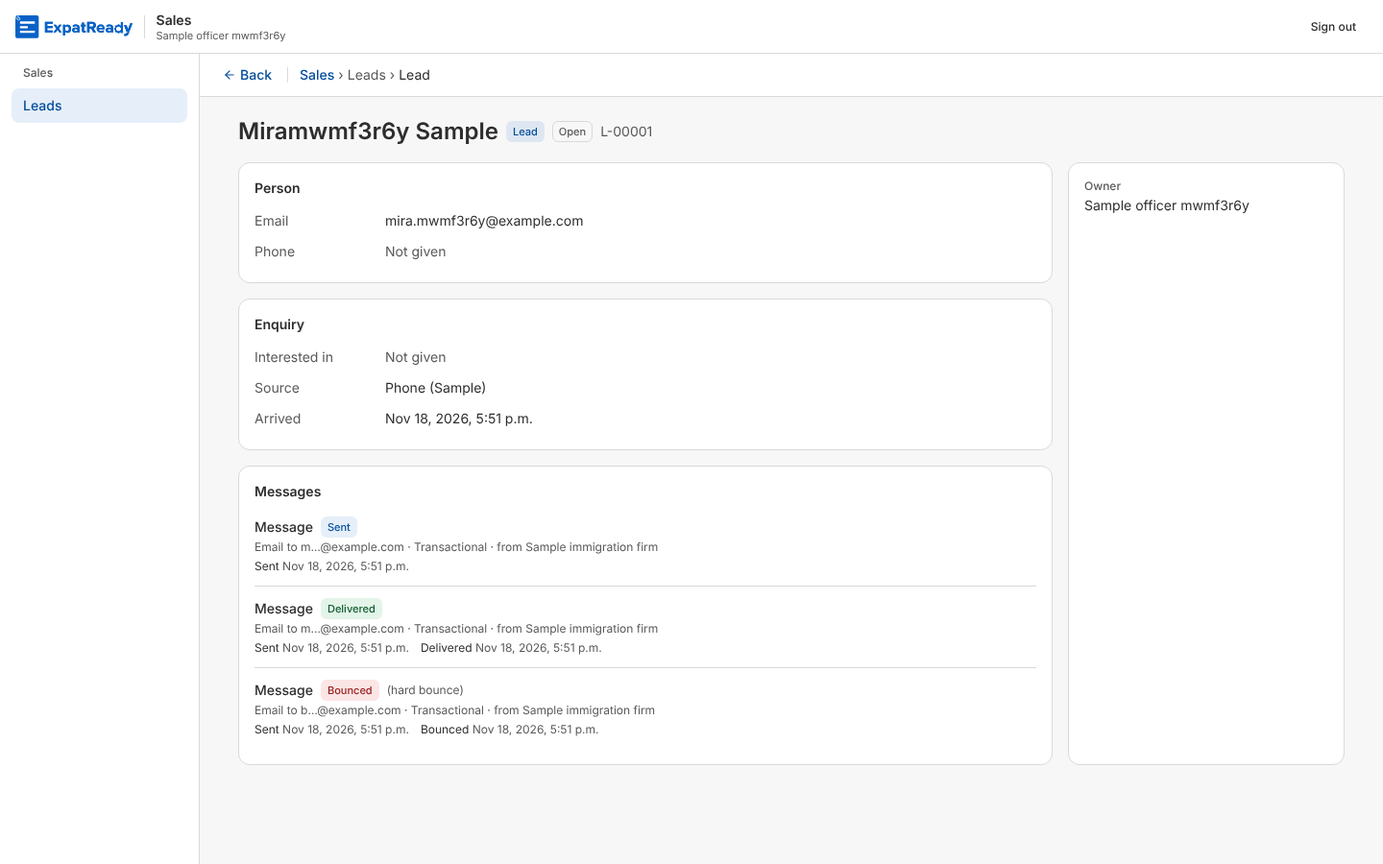
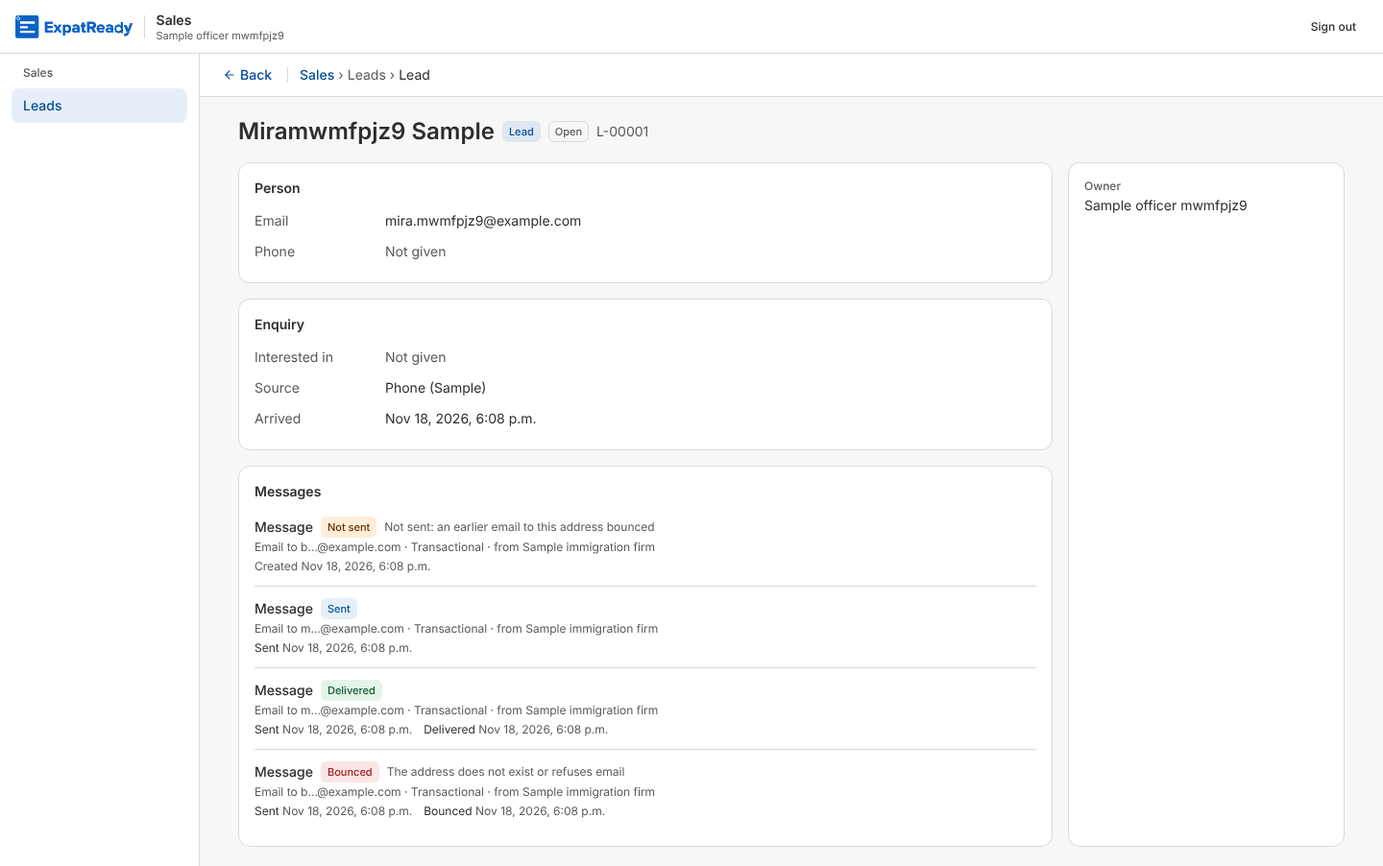
runtime: PF-19b part 3 — review fixes: reasons in plain words (M1), focus after Show older (m1), Try again (m2), impossible cursors 400 (m3); review and journey files
Claude-Session: https://claude.ai/code/session_018BSQJo9hHGemaYv7zS7fqE

diff --git a/ai-workers/problem-1-pathway-setup-and-form-filling/prototype/studio/tests/check_pf19b3_panel_browser.ts b/ai-workers/problem-1-pathway-setup-and-form-filling/prototype/studio/tests/check_pf19b3_panel_browser.ts
@@ -78,13 +78,16 @@ ok("DW4 pass (the running copy): its own worker sends a lead's email with the lo
 ok("DW4 pass (the running copy): a Sample bounce address reads BOUNCED and the address is suppressed", stateOf(forBounce.outboxId) === "BOUNCED"
   && sql(`select count(*) from msg_suppression where firm_id = '${A}' and address = '${bounceTo}' and reason = 'HARD_BOUNCE'`) === "1");
 ok("DW4 fail (the running copy): a message the copy did not send (no test event) stays SENT", stateOf(sentHere.outboxId) === "SENT");
+// The next email to the bounced address is stopped by the gate (SUPPRESSED, reason "SUPPRESSED: HARD_BOUNCE"): the panel words it (review M1).
+const afterBounce = await write(bounceTo, "Third try (Sample)");
+ok("DW4 pass (the running copy): the next send to the bounced address is suppressed", afterBounce.state === "SUPPRESSED" && afterBounce.reason === "SUPPRESSED: HARD_BOUNCE", afterBounce);
 
 // DW5 on the running copy: the real route and the platform guard.
 const api = (tok: string | null, path: string) => fetch(`${BASE}/api${path}`, { headers: tok ? { authorization: `Bearer ${tok}` } : {} });
 const q = `/platform/messages?subjectKind=LEAD&subjectId=${leadId}`;
 const mine = await api(tokens.O, q), mineBody = await mine.text();
-ok("DW5 pass (route): the lead's owner gets its three messages; no body text and no full address in the answer",
-  mine.status === 200 && (JSON.parse(mineBody) as { messages: unknown[] }).messages.length === 3 && !mineBody.includes(`BODY-${run}`) && !mineBody.includes(addr) && !mineBody.includes("Booked (Sample)"), { status: mine.status, body: mineBody.slice(0, 300) });
+ok("DW5 pass (route): the lead's owner gets its four messages; no body text and no full address in the answer",
+  mine.status === 200 && (JSON.parse(mineBody) as { messages: unknown[] }).messages.length === 4 && !mineBody.includes(`BODY-${run}`) && !mineBody.includes(addr) && !mineBody.includes("Booked (Sample)"), { status: mine.status, body: mineBody.slice(0, 300) });
 const roR = await api(tokens.RO, q), fbR = await api(tokens.FB, q), none = await api(null, q);
 const words = async (r: Response) => `${r.status}:${((await r.json()) as { detail?: string }).detail}`;
 const roW = await words(roR), fbW = await words(fbR);
@@ -110,13 +113,15 @@ try {
   await panel(p).locator("[data-message]").first().waitFor({ timeout: 30_000 }).catch(() => undefined);
   ok("DW6 pass (keyboard only): Tab reaches the lead in the Leads list and Enter opens its page with the Messages panel", reached && (await panel(p).count()) === 1 && p.url().endsWith(leadId));
   const stateWords = await panel(p).locator("[data-state-word]").allInnerTexts();
-  ok("DW6 pass: the panel shows Sent, Delivered and Bounced as words, one per message", ["Sent", "Delivered", "Bounced"].every((w) => stateWords.includes(w)) && stateWords.length === 3, stateWords);
+  ok("DW6 pass: the panel shows Sent, Delivered, Bounced and Not sent as words, one per message", ["Sent", "Delivered", "Bounced", "Not sent"].every((w) => stateWords.includes(w)) && stateWords.length === 4, stateWords);
   const text = await panel(p).innerText();
   ok("DW6 pass: each message names its channel, the masked address, its class, the from-name and what happened with times",
     text.includes(`Email to m…@example.com`) && text.includes("Transactional") && text.includes(`from ${sql(`select operating_name from platform_firm where id = '${A}'`)}`) && /Delivered [A-Z][a-z]{2} \d{1,2}, \d{4}/.test(text) && text.includes("Bounced"), text.slice(0, 500));
+  ok("DW6 fail (review M1): a stored reason shows in plain words, never as a code (Not sent: an earlier email to this address bounced; hard bounce in words)",
+    text.includes("Not sent: an earlier email to this address bounced") && text.includes("The address does not exist or refuses email") && !/SUPPRESSED|HARD_BOUNCE|NO_CONSENT|hard bounce/.test(text), text.slice(0, 800));
   ok("DW6 fail: the page shows no body text and no full address of any message", !(await p.content()).includes(`BODY-${run}`) && !text.includes(addr) && !text.includes(bounceTo));
   // The state is never colour alone: the word is in the pill's own text.
-  ok("DW6 pass: each state pill carries its word (never colour alone)", (await panel(p).locator("[data-state] [data-state-word]").count()) === 3);
+  ok("DW6 pass: each state pill carries its word (never colour alone)", (await panel(p).locator("[data-state] [data-state-word]").count()) === 4);
   for (const w of [1440, 1024, 375]) {
     await p.setViewportSize({ width: w, height: 900 }); await p.waitForTimeout(150);
     ok(`DW6 pass (${w} px): no sideways page scroll`, await p.evaluate(() => document.documentElement.scrollWidth <= window.innerWidth + 1));
@@ -126,6 +131,30 @@ try {
   }
   const full = await new AxeBuilder({ page: p }).withTags(TAGS).analyze();
   ok("DW6 pass: axe finds no WCAG A/AA violation on the whole lead page with the panel", full.violations.length === 0, full.violations.map((v) => `${v.id}: ${v.nodes[0]?.target?.join(" ")}`).join(" | ") || undefined);
+  // Review m1: 51 messages on a second lead; "Show older messages" by keyboard puts focus on the first older message.
+  const p51 = sql(`insert into fo_person (firm_id, given_names, family_name, created_by, updated_at) values ('${A}', 'Paged${run}', 'Sample', 'seed:pf19b3', now()) returning id`);
+  const lead51 = sql(`insert into fo_lead (firm_id, person_id, door, source, owner_staff_id, created_by, updated_at) values ('${A}', '${p51}', 'MANUAL', 'Phone (Sample)', '${O.id}', 'seed:pf19b3', now()) returning id`);
+  for (let i = 0; i < 51; i++) await db.$transaction((t) => here.send(t, { firmId: A, person: { kind: "FO_PERSON", id: p51 }, channel: "EMAIL", class: "TRANSACTIONAL", address: `paged${i}.${run}@example.com`, content: { subject: "Paged (Sample)", text: "x" }, idempotencyKey: randomUUID() }));
+  await p.setViewportSize({ width: 1440, height: 900 });
+  await p.goto(`${BASE}/front-office/leads/${lead51}`); await panel(p).locator("[data-message]").first().waitFor({ timeout: 30_000 });
+  const firstPage = await panel(p).locator("[data-message]").count();
+  await p.getByRole("button", { name: "Show older messages" }).focus(); await p.keyboard.press("Enter");
+  await p.waitForFunction(() => document.querySelectorAll("[data-messages-panel] [data-message]").length === 51, null, { timeout: 15_000 }).catch(() => undefined);
+  await p.waitForTimeout(200);
+  const focused = await p.evaluate(() => { const a = document.activeElement; return a?.matches("[data-message]") ? [...document.querySelectorAll("[data-messages-panel] [data-message]")].indexOf(a) : -1; });
+  ok("DW6 pass (review m1): 50 shown, then Show older messages by keyboard loads the 51st and focus moves to it (not the top of the page)",
+    firstPage === 50 && (await panel(p).locator("[data-message]").count()) === 51 && focused === 50 && (await p.getByRole("button", { name: "Show older messages" }).count()) === 0, { firstPage, focused });
+  // Review m2: a failed load offers Try again, which loads the messages once the network is back.
+  const e = await pageAs(tokens.O);
+  let blocked = true;
+  await e.route("**/api/platform/messages?**", (rt) => (blocked ? rt.abort("failed") : rt.continue()));
+  await e.goto(`${BASE}/front-office/leads/${leadId}`);
+  await e.getByRole("button", { name: "Try again" }).waitFor({ timeout: 30_000 }).catch(() => undefined);
+  const offered = (await e.getByRole("button", { name: "Try again" }).count()) === 1;
+  blocked = false; if (offered) await e.getByRole("button", { name: "Try again" }).click();
+  await panel(e).locator("[data-message]").first().waitFor({ timeout: 15_000 }).catch(() => undefined);
+  ok("DW6 fail→pass (review m2): a failed load says so with a Try again button; Try again then shows the messages", offered && (await panel(e).locator("[data-message]").count()) === 4);
+  errors.splice(0, errors.length, ...errors.filter((x) => !/Failed to fetch|NetworkError/.test(x)));
   const r = await pageAs(tokens.RO);
   await r.goto(`${BASE}/front-office/leads/${leadId}`); await r.getByRole("heading", { name: "Lead not found" }).waitFor({ timeout: 30_000 }).catch(() => undefined);
   ok("DW6 fail: a Read-only person who may not see the lead reads Lead not found, with no Messages panel", (await r.getByRole("heading", { name: "Lead not found" }).count()) === 1 && (await panel(r).count()) === 0);

diff --git a/ai-workers/problem-1-pathway-setup-and-form-filling/prototype/studio/web/src/modules/platform/messages/messages-panel.tsx b/ai-workers/problem-1-pathway-setup-and-form-filling/prototype/studio/web/src/modules/platform/messages/messages-panel.tsx
@@ -3,20 +3,21 @@
 // GET /api/platform/messages; the body is never shown (the server never returns it). Mounted on the front-office lead
 // page; the case page mounts it in its own row.
 import { useInfiniteQuery } from "@tanstack/react-query";
+import { useRef } from "react";
 import { Button, Pill } from "@/components/ui/controls";
 import { staffApi, StaffApiError } from "../session";
-import { CHANNEL, CLASS, EVENT, MessagePage, purposeWords, STATE, whenWords, type Message } from "./contract";
+import { CHANNEL, CLASS, EVENT, MessagePage, purposeWords, reasonWords, STATE, whenWords, type Message } from "./contract";
 
 export type Subject = { kind: "LEAD" | "FO_PERSON" | "CASE_PARTY"; id: string };
 
-function Row({ m }: { m: Message }) {
-  const s = STATE[m.state] ?? { word: m.state, tone: "neutral" };
+function Row({ m, focusRef }: { m: Message; focusRef?: React.Ref<HTMLLIElement> }) {
+  const s = STATE[m.state] ?? { word: "Unknown", tone: "neutral" }, why = reasonWords(m.stateReason);
   return (
-    <li data-message={m.id} data-state={m.state} className="border-t border-border py-3 first:border-t-0">
+    <li ref={focusRef} tabIndex={focusRef ? -1 : undefined} data-message={m.id} data-state={m.state} className="border-t border-border py-3 first:border-t-0">
       <div className="flex flex-wrap items-center gap-2">
         <span className="text-sm font-medium [overflow-wrap:anywhere]">{purposeWords(m.purpose)}</span>
         <Pill tone={s.tone}><span data-state-word>{s.word}</span></Pill>
-        {m.stateReason ? <span className="text-xs text-text-muted">({m.stateReason})</span> : null}
+        {why ? <span data-reason className="text-xs text-text-muted">{why}</span> : null}
       </div>
       <p className="mt-0.5 text-xs text-text-muted [overflow-wrap:anywhere]">
         {CHANNEL[m.channel] ?? m.channel} to {m.address} · {CLASS[m.class] ?? m.class}{m.fromName ? <> · from {m.fromName}</> : null}
@@ -37,14 +38,20 @@ export function MessagesPanel({ subject }: { subject: Subject }) {
     getNextPageParam: (last) => last.nextCursor,
   });
   const messages = q.data?.pages.flatMap((p) => p.messages) ?? [];
+  // After "Show older messages", focus goes to the first newly loaded message (the button may be gone: break m1).
+  const firstNew = useRef<HTMLLIElement>(null), loadedBefore = useRef<number | null>(null);
+  const older = async () => { loadedBefore.current = messages.length; await q.fetchNextPage(); requestAnimationFrame(() => firstNew.current?.focus()); };
   return (
     <section aria-labelledby="pf-messages" data-messages-panel className="rounded-xl border border-border bg-surface-raised p-4">
       <h2 id="pf-messages" className="text-sm font-semibold">Messages</h2>
       {q.isPending ? <p role="status" className="mt-2 text-sm text-text-muted">Loading the messages…</p>
-        : q.isError ? <p role="alert" className="mt-2 text-sm text-text-danger">{q.error instanceof StaffApiError && q.error.status === 404 ? "These messages are not ones you may see." : "Could not load the messages. Please try again."}</p>
+        : q.isError ? (
+          <div role="alert" className="mt-2 flex flex-wrap items-center gap-2 text-sm text-text-danger">
+            {q.error instanceof StaffApiError && q.error.status === 404 ? "These messages are not ones you may see." : <>Could not load the messages. <Button variant="outline" size="sm" onClick={() => void q.refetch()}>Try again</Button></>}
+          </div>)
         : messages.length === 0 ? <p className="mt-2 text-sm text-text-muted">No messages yet.</p>
-        : <ul className="mt-1">{messages.map((m) => <Row key={m.id} m={m} />)}</ul>}
-      {q.hasNextPage ? <Button variant="secondary" className="mt-2" busy={q.isFetchingNextPage} onClick={() => void q.fetchNextPage()}>Show older messages</Button> : null}
+        : <ul className="mt-1">{messages.map((m, i) => <Row key={m.id} m={m} focusRef={i === loadedBefore.current ? firstNew : undefined} />)}</ul>}
+      {q.hasNextPage ? <Button variant="secondary" className="mt-2" busy={q.isFetchingNextPage} onClick={() => void older()}>Show older messages</Button> : null}
     </section>
   );
 }

diff --git a/ai-workers/problem-1-pathway-setup-and-form-filling/prototype/studio/web/src/modules/platform/messages/contract.ts b/ai-workers/problem-1-pathway-setup-and-form-filling/prototype/studio/web/src/modules/platform/messages/contract.ts
@@ -16,6 +16,20 @@ export const STATE: Record<string, { word: string; tone: string }> = {
   BOUNCED: { word: "Bounced", tone: "danger" }, FAILED: { word: "Failed", tone: "danger" }, SUPPRESSED: { word: "Not sent", tone: "warn" },
 };
 export const EVENT: Record<string, string> = { SENT: "Sent", DELIVERED: "Delivered", OPENED: "Opened", BOUNCED: "Bounced", COMPLAINED: "Marked as spam", FAILED: "Failed" };
+/** Why a message is in its state, in words (the stored codes: the consent gate's `SUPPRESSED: <why>` and `NO_CONSENT|
+ *  WITHDRAWN: <purpose>`, the worker's and the notices' plain reasons). A code not listed shows nothing (never raw). */
+const SUPPRESSED_WHY: Record<string, string> = { HARD_BOUNCE: "an earlier email to this address bounced", COMPLAINT: "the person marked an email as spam", UNSUBSCRIBE: "the person unsubscribed", STOP: "the person replied STOP", STAFF: "staff stopped messages to this address" };
+export function reasonWords(reason: string | null): string | null {
+  if (!reason) return null;
+  const [code, detail] = reason.split(": ");
+  if (code === "SUPPRESSED") return SUPPRESSED_WHY[detail] ? `Not sent: ${SUPPRESSED_WHY[detail]}` : null;
+  if (code === "NO_CONSENT") return detail === "MARKETING" ? "Not sent: no consent to marketing on this channel" : "Not sent: no consent on this channel";
+  if (code === "WITHDRAWN") return "Not sent: the person withdrew consent";
+  const plain: Record<string, string> = { "hard bounce": "The address does not exist or refuses email", complaint: "The person marked it as spam", "daily limit": "Waiting: the firm's daily sending limit is reached", "content changed": "Not sent: the stored message changed", "send failed": "The email provider did not take it" };
+  if (plain[reason]) return plain[reason];
+  if (/^send failed: try \d+ of \d+$/.test(reason)) return "Trying again: the email provider did not take it yet";
+  return null;
+}
 export const CLASS: Record<string, string> = { TRANSACTIONAL: "Transactional", SERVICE: "Service", MARKETING: "Marketing" };
 export const CHANNEL: Record<string, string> = { EMAIL: "Email", WHATSAPP: "WhatsApp" };
 /** A purpose key (booking.confirmation) as words: "Booking confirmation". */

diff --git a/ai-workers/problem-1-pathway-setup-and-form-filling/prototype/studio/api/src/platform/messages/staff-routes.ts b/ai-workers/problem-1-pathway-setup-and-form-filling/prototype/studio/api/src/platform/messages/staff-routes.ts
@@ -16,7 +16,7 @@ export const PAGE = 50;
 export const SUBJECT_KINDS = ["LEAD", "FO_PERSON", "CASE_PARTY"] as const;
 type SubjectKind = (typeof SUBJECT_KINDS)[number];
 const UUID = /^[0-9a-f]{8}-[0-9a-f]{4}-[0-9a-f]{4}-[0-9a-f]{4}-[0-9a-f]{12}$/i;
-const CURSOR = /^(\d{4}-\d{2}-\d{2}T\d{2}:\d{2}:\d{2}\.\d{3}Z)_([0-9a-f-]{36})$/i;
+const CURSOR = /^(\d{4}-\d{2}-\d{2}T\d{2}:\d{2}:\d{2}\.\d{3}Z)_([0-9a-f]{8}-[0-9a-f]{4}-[0-9a-f]{4}-[0-9a-f]{4}-[0-9a-f]{12})$/i;
 /** The one answer for a subject that is not there for this person (another firm's, not theirs to see, or no key). */
 export const NOT_FOUND = "No such record in your firm.";
 const notFound = (): never => problem(404, "Not found", NOT_FOUND, { code: "NOT_FOUND" });
@@ -65,7 +65,7 @@ export class StaffMessages {
     const kind = SUBJECT_KINDS.find((k) => k === q.subjectKind);
     if (!kind || typeof q.subjectId !== "string" || !UUID.test(q.subjectId)) return notFound();
     const c = q.cursor === undefined ? null : CURSOR.exec(q.cursor);
-    if (q.cursor !== undefined && !c) return problem(400, "Check the page", "cursor: the nextCursor of the page before.", { code: "BAD_CURSOR" });
+    if (q.cursor !== undefined && (!c || Number.isNaN(Date.parse(c[1])) || new Date(c[1]).toISOString() !== c[1].toUpperCase())) return problem(400, "Check the page", "cursor: the nextCursor of the page before.", { code: "BAD_CURSOR" });
     const s = await this.subject(ctx, kind, q.subjectId.toLowerCase());
     const before = c ? { OR: [{ createdAt: { lt: new Date(c[1]) } }, { createdAt: new Date(c[1]), id: { lt: c[2].toLowerCase() } }] } : {};
     const [rows, firm] = await Promise.all([

diff --git a/ai-workers/problem-1-pathway-setup-and-form-filling/prototype/studio/tests/check_pf19b3_delivery.ts b/ai-workers/problem-1-pathway-setup-and-form-filling/prototype/studio/tests/check_pf19b3_delivery.ts
@@ -208,8 +208,9 @@ try {
   const times = p1.messages.map((m) => Date.parse(m.createdAt));
   ok("DW5 pass: 51 messages → a page of 50, newest first, and a next page of 1 (no repeats)",
     p1.messages.length === PAGE && !!p1.nextCursor && p2.messages.length === 1 && p2.nextCursor === null && times.every((t, i) => i === 0 || t <= times[i - 1]) && !p1.messages.some((m) => m.id === p2.messages[0].id), { n1: p1.messages.length, n2: p2.messages.length });
-  const badCursor = await status(staff.list(officer, { subjectKind: "FO_PERSON", subjectId: many.id, cursor: "x" }));
-  ok("DW5 fail: a cursor that is not one we gave → 400", badCursor.startsWith("400:"), badCursor);
+  const cursors = ["x", `2026-13-45T25:61:61.000Z_${uuid()}`, "2026-11-18T10:00:00.000Z_------------------------------------", `2026-02-30T10:00:00.000Z_${uuid()}`];
+  const bads = await Promise.all(cursors.map((cursor) => status(staff.list(officer, { subjectKind: "FO_PERSON", subjectId: many.id, cursor }))));
+  ok("DW5 fail: a cursor that is not one we gave (text, an impossible date, an all-dash id) → 400, never 500 (review m3)", bads.every((b) => String(b).startsWith("400:")), bads);
 } finally {
   connectLocalNotices(null);
   await db.$disconnect();

diff --git a/ai-workers/problem-1-pathway-setup-and-form-filling/product/screens/pf-19b3-messages/review.md b/ai-workers/problem-1-pathway-setup-and-form-filling/product/screens/pf-19b3-messages/review.md
@@ -1,0 +1,87 @@
+# Review: PF-19b part 3, delivery state and the staff message list (independent Opus, high effort, P-303)
+
+**Scope:** `git diff 2aa433a4e..9c5207100` (head `9c5207100dd10cf7961c737f51b498cf5e1aeb10`) against the brief `lead-b-briefs/PF-19b3.md` (c5bf956f9, DW1-DW6, touch list) and `notes.md`.
+
+**Verdict (skill scale):** Ship after fixes. One Major (M1) is open.
+
+## What I ran
+* `tests/check_pf19b3_delivery.ts`: **24/0**. This includes `check_pf19b2_ses.ts` run unchanged.
+* `check_pf19b_sending` 42/0, `check_pf19b_mail` 29/0, `check_pf19p_platform_mail` 68/0.
+* `tests/check_pf19b3_panel_browser.ts` on my own isolated copy (`rv_pf19b3`, :4541, stopped afterwards): **20/20**. The test overwrites the builder's PNGs, so I restored them with `git checkout`.
+* Probes (scratch scripts; nothing kept in the repo):
+  * a concurrent Bounce and Delivery on one row, and a doubled Delivery;
+  * `created_at` precision;
+  * cursor edge cases;
+  * 51 rows through the copy's own sweep with the local test events. All 51 became DELIVERED with no "test event failed" log line.
+* Journey test: `journey-test-reviewer-2026-11-18.md`, **8/10, pass**.
+
+## Findings
+**Blocker:** none.
+
+**Major**
+* **M1. Raw codes on the panel, which breaks EXPERIENCE §2 [M] "plain words; no IDs/codes on the main path" (BIC-20 plain words).**
+  * Where: `web/src/modules/platform/messages/messages-panel.tsx:46` renders `stateReason` exactly as stored.
+  * What staff see: for a suppressed send the stored value comes from `gateReason()`, so the panel reads "Not sent **(SUPPRESSED: HARD_BOUNCE)**" or "Not sent **(NO_CONSENT: MARKETING)**". A message held at the cap reads "(daily limit)". (Screenshot: my journey run, J2.)
+  * Why it matters: DW4's "the next send to it is suppressed" is exactly the row J-48 will show.
+  * Fix: a `REASON` map in `contract.ts`, the same way `STATE`/`EVENT`/`CLASS` are mapped, with a fallback that hides any unknown code. Suggested words:
+    * hard bounce → "the address bounced";
+    * complaint → "marked as spam";
+    * `SUPPRESSED: *` → "this address is blocked after a bounce or complaint";
+    * `NO_CONSENT: *` → "no consent for this kind of message";
+    * daily limit → "held: the firm's daily sending limit".
+
+**Minor**
+* **m1. Focus is lost when the last page loads.** `messages-panel.tsx:74`: the "Show older messages" button unmounts once `hasNextPage` turns false, and focus falls to `<body>` (J6, keyboard). Fix: move focus to the first newly loaded row (give it `tabIndex=-1`), or keep a focusable end-of-list note.
+* **m2. The error state has no recovery control.** `messages-panel.tsx:71` says "Please try again" but there is no Try again button (`retry: false`), so the only option is a page reload. Fix: add a Try again button that calls `q.refetch()`.
+* **m3. An impossible cursor gives 500.** `staff-routes.ts:19,67-70`: a cursor that matches `CURSOR` but holds an impossible date (`2026-13-45T99:99:99.999Z_…`) or an all-dash id answers 500 (PrismaClientValidationError), where it should give the 400 BAD_CURSOR. Fix: check `!Number.isNaN(Date.parse(c[1]))` and use the strict `UUID` pattern for `c[2]`.
+* **m4. Most rows have no purpose.** `staff-routes.ts:31-35`: any row without a template key, and without a `mail:<head>` sending key, reads "Message". Booking mail all reads "Booking" (confirmation, reminder and host copy look the same). The builder's question 3 is sound. Record it as a follow-up row, since storing the purpose is `mail.ts` (PF-19e's area).
+* **m5. Sweep and PR-body items.**
+  * The missing `@OwnOrAll` marker (builder Q5) means the PF-6b sweep does not cover this route. The service applies the leads' rule exactly as `leads.ts:122-131` and `:161-166` do (an inactive owner counts as unassigned, view.all sees unassigned, everyone-sees-all needs the setting plus view.all), and DW5 proves it with a pass and a fail. Acceptable for this row, but the PR must carry the Question for the tech lead so that a sweep entry is added.
+  * `module-cards.py pr` fails for the `api-features` and `web-shell` cards. The PR body needs `Card unchanged: <reason>`.
+  * The front-office card at 42 lines is a base problem, already fixed on `main` (40 lines).
+* **m6. The case-party rule has no pass test.** `staff-routes.ts:58-61`: the CASE_PARTY path has only fail tests. It fails closed, and outbox rows stay firm-scoped by `ctx.firmId`, so nothing leaks across firms. Note that `case.firmKey` defaults to `sample-firm`. Recorded only; this is Build Lead C's row to tighten.
+* **m7. The graph tool misses the new route.** It lists `GET /platform/messages` under G3 ("no test reaches it"). This is a false negative: the browser test calls it through `/api${path}` built at run time, and the web calls it through `staffApi` with a template string. Not a code gap.
+
+## Builder's deviations (judged)
+* **demo-inbox.ts filter, `SENT` → `SENT|DELIVERED`: sound and needed.** Without it the local test events would empty the demo inbox for sign-up, booking and unsubscribe. A BOUNCED Sample row drops out of the inbox, which is correct. No other app code or suite filters outbox rows on `SENT` (checked by grep).
+* **Purpose derivation: sound as a stop-gap** (see m4).
+* **Case-party rule: sound for now** (see m6).
+* **No @OwnOrAll marker: acceptable, with the question on the PR** (see m5).
+* **Two lines in lead-page.tsx (the import and the mount): fine.**
+* **DELIVERED → BOUNCED is allowed: sound.** SES can bounce after a delivery. BOUNCED and FAILED stay final, and DW2 tests both directions.
+
+## Correctness, races, walls
+* **The row lock comes first** (`bounces.ts:118-120`, `FOR UPDATE`, then the advisory lock). The worker holds the same row lock for its whole transaction (`messages.ts:148-150`). The local event (`local.ts:42`, `setImmediate`) therefore always waits for the commit, and a rolled-back send leaves QUEUED, which is ignored and logged (tested).
+  * Removing `FOR UPDATE` would fail DW4 pass, because the event would read the uncommitted QUEUED row.
+  * A Bounce and a Delivery are serialised on the row. My probe gave BOUNCED, with the Delivery ignored and logged.
+* **Idempotency:** the notice id goes under the advisory lock, then the event lookup. The local ids are stable (`local-delivery:<outbox>`).
+* **Part 2 is unchanged:** the signature and the topic are checked before `apply()`; SES rows match only `ses:` ids and local rows only `local:` ids; part 2's suite runs unchanged inside DW3. The only behaviour change is that a hard bounce no longer marks FAILED/SUPPRESSED rows BOUNCED, and those rows carry no provider id in practice.
+* **The local events are wired only when the adapter is local** (`features/platform-messages.ts:40`), never with SES.
+* **Firm walls:** every read goes through `firmScope(ctx.firmId)`. Another firm, an unseen lead or person, a missing key, a kind not offered, a malformed id, or a doubled query value all give the same 404 words. The answer selects no body and no file. The address is masked (`maskAddress`). Tested in the service and through the guard.
+* **No per-row requests:** one outbox query with nested events, plus visibility and the firm name.
+
+## D1-D20
+D1 5 (DW1-DW6 each have a pass and a fail) · D2 5 (idempotent, race serialised) · D3 5 (one handler for SES and local events) · D4 N/A · D5 4 (retried sends safe; no retry control, m2) · D6 N/A · D7 N/A · D8 5 (panel on the lead page) · D9 4 (purpose mostly "Message", m4) · D10 3 (raw codes, M1) · D11 5 (states in words; status and alert roles) · D12 5 (team cards, tokens, Pill) · D13 4 (axe clean; 375/1024/1440 px and 200 % fine; focus slip, m1) · D14 5 (same look as the lead page) · D15 5 (300 ms to the first row) · D16 5 (pass and fail per Done-when line; re-run by me on this commit) · D17 and D20 simulated only · D18 4 (event times and from-name; no purpose) · D19 4 (J-48 booking walk not done here).
+
+## BIC (EXPERIENCE §6)
+The lead page is front office, not a case-side screen, so §6 scope is partial and only the applicable checks are scored.
+
+| Check | Result | Evidence |
+|---|---|---|
+| BIC-11 | Met | no primary button in the panel; "Show older messages" is secondary |
+| BIC-13 | N/A | the panel takes no input |
+| BIC-14 | Met | every chip carries its word, and the reason sits beside it |
+| BIC-18 | Partly (Should) | the loading state is text, not a skeleton; the empty state says nothing about what will appear |
+| BIC-19 | Met | one heading and no primary button, at 1440 and 1024 px |
+| BIC-20 | Partly (Must, see M1) | keyboard and zoom fine; plain words fail (M1); focus slip (m1) |
+| Others | N/A | no case-side questions, documents, signing or review here |
+
+## Could not check
+* A visible browser and a real screen reader.
+* The public booking page into the panel (J-48).
+* An intended user's unaided walk (D17, D20).
+* CI on GitHub: no PR exists yet.
+
+**Verdict: Block**. To fix: M1 (map `stateReason` to plain words). m1-m3 should be fixed in the same pass, since they are small. m4-m7 are records and questions for the PR.
+
+Reviewer: Changes requested

diff --git a/ai-workers/problem-1-pathway-setup-and-form-filling/product/screens/pf-19b3-messages/journey-test-reviewer-2026-11-18.md b/ai-workers/problem-1-pathway-setup-and-form-filling/product/screens/pf-19b3-messages/journey-test-reviewer-2026-11-18.md
@@ -1,0 +1,46 @@
+# Journey test: PF-19b part 3, the lead page's Messages panel (reviewer, 18 Nov 2026)
+
+Reviewer role (independent Opus, P-303), head `9c5207100`. Isolated copy `rv_pf19b3` on :4541 (`PLATFORM_IDENTITY=local`, stopped after), never :4400. Data: the builder's browser test seeded the lead, its three emails and the three staff. My own harness (`Messages.send` on the copy's database) added the suppressed rows, an empty lead and 51 rows for paging. The copy's own worker and its local test events then moved them. Walked in headless Chromium. No visible browser pane is available in this cloud session.
+
+## Journeys (persona · goal · result)
+1. **Main.** Case officer, own lead: "did my email reach Mira?" Keyboard from Leads (Tab, Enter) to the lead. The panel reads Sent, Delivered and Bounced as words, with events and times, and the panel came up in 300 ms. **Held.** Evidence: browser test DW6, `screenshots/lead-messages-1440.png`.
+2. **Alternate.** The same officer after a send to the bounced Sample address, plus a marketing email with no consent. Both read "Not sent", but the reason shows as a raw code: "(SUPPRESSED: HARD_BOUNCE)", "(NO_CONSENT: MARKETING)". **Failed: plain words.**
+3. **Empty.** A lead with no emails reads "No messages yet." **Held.** The message does not say what will appear there.
+4. **Error.** The messages read answers 500 (forced with a Playwright route). The panel reads "Could not load the messages. Please try again." but has no Try again control, so the only way to retry is to reload the page. **Partly.**
+5. **Wrong role.** A Read-only person who may not see the lead, and firm B's Owner by URL, both get "Lead not found" and no panel. On the API, firm B gets 404 "No such record in your firm.", for the lead and for the person. A random case party, kind STAFF, or a doubled query value also gets the same 404. No session gets 401. **Held.**
+6. **Recovery and volume.** 51 messages show a page of 50, and "Show older messages" (reached by Tab, opened with Enter) shows 51. After the last page loads the button goes away and **focus falls to `<body>`**. Reload shows the first 50 again. The copy's sweep sent the 51 rows: all became DELIVERED within about 2 minutes, none was stuck at SENT, and the log shows no "test event failed" line. **Held, with the focus slip.**
+7. **Screen sizes.** At 1024 px, 720 px at 2x (200 % zoom), 400 px and 375 px there is no sideways scroll (the overflow measured 0). axe-core WCAG 2.2 A/AA finds no violations in the panel. A 40-character local part with a 60-character domain wraps cleanly. **Held.**
+8. **Across the screen boundary (J-48).** Not walked through the public booking page. DW4 on the running copy shows the copy's own worker taking a lead's email to DELIVERED, and a Sample bounce address to BOUNCED and suppressed.
+
+## Data underneath
+* There is one DELIVERED event per message, and a repeated notice answers "repeated".
+* Probe: a concurrent Bounce and Delivery on one row (`Promise.all`) ends BOUNCED with the Delivery ignored. Two concurrent copies of one Delivery make one event.
+* `created_at` is stored at ms precision, so the cursor loses no rows.
+* No body text and no full address appear in the API answer or the page HTML.
+
+## Break it
+* A cursor that matches the pattern but holds an impossible date (`2026-13-45T99:99:99.999Z_…`), or an id of all dashes, gives **500** rather than 400 (`staff-routes.ts:67-70`). Minor.
+* Doubled query values, a kind that is not offered, and a malformed id each give the same 404. Good.
+
+## Score (QUALITY.md "Journey score")
+| Criterion | Score | Evidence |
+|---|---|---|
+| Task completed | 1 | J1, J6: states and events visible, paging works |
+| Next step obvious | ½ | every row is titled "Message" unless it has a template key or a `mail:<head>` key. Two bounced emails cannot be told apart (J2 screenshot) |
+| Plain words | ½ | raw codes "(SUPPRESSED: HARD_BOUNCE)", "(NO_CONSENT: MARKETING)" (J2) |
+| Feedback and state | 1 | each state is a word in a toned pill, "Loading the messages…" uses role=status, the error uses role=alert |
+| Correct data | 1 | database checks above, masked addresses, firm's from-name |
+| Error recovery | ½ | no Try again control (J4), bad cursor gives 500 |
+| Accessibility and screen sizes | ½ | axe clean and no overflow at any width; focus lost after the last "Show older messages" (J6) |
+| Speed | 1 | 300 ms to the first row |
+| Visual quality | 1 | same cards, tokens and Pill as the lead page (1440 and 375 screenshots) |
+| Trust and sources | 1 | from-name, masked address, event times. No AI on this screen |
+| **Total** | **8 / 10** | **Pass** (8 or more, no 0) |
+
+Fixes that would raise the score, most valuable first:
+1. Map each `stateReason` to plain words in `web/src/modules/platform/messages/contract.ts`.
+2. Move focus to the first newly loaded row when "Show older messages" loads the last page.
+3. Add a Try again button to the error state.
+4. Send an impossible cursor date to the 400 answer.
+
+**Not tested:** a real screen reader; an intended user's unaided walk (D17 and D20 stay with the founder); the public booking page into this panel (J-48's own walk).

diff --git a/ai-workers/problem-1-pathway-setup-and-form-filling/product/screens/pf-19b3-messages/notes.md b/ai-workers/problem-1-pathway-setup-and-form-filling/product/screens/pf-19b3-messages/notes.md
@@ -11,8 +11,8 @@ Row: PF-19b part 3 (R1.48; needed by J-48). Brief: `design/lead-b-briefs/PF-19b3
 ## Done when (P-606) and the tests
 | Line | Test | Result on this branch |
 |---|---|---|
-| DW1-DW5 | `tests/check_pf19b3_delivery.ts` | 24 passed, 0 failed (includes PF-19b part 2's suite, 44/0, unchanged) |
-| DW4, DW5 on the running copy, DW6 | `tests/check_pf19b3_panel_browser.ts` (isolated copy, `PLATFORM_IDENTITY=local`) | 20/20 passed; screenshots in `screenshots/` at 375, 1024, 1440 px |
+| DW1-DW5 | `tests/check_pf19b3_delivery.ts` | 24 passed, 0 failed (after the review fixes too) (includes PF-19b part 2's suite, 44/0, unchanged) |
+| DW4, DW5 on the running copy, DW6 | `tests/check_pf19b3_panel_browser.ts` (isolated copy, `PLATFORM_IDENTITY=local`) | 24/24 passed after the review fixes (M1 reasons in words, m1 focus, m2 Try again; m3 cursors 400 in the delivery suite); screenshots in `screenshots/` at 375, 1024, 1440 px |
 
 ## Duplicate check (P-526)
 Searched `main` (`git grep DELIVERED` under `api/src`: only the type and the unsubscribe page's state filter), open PRs (none names PF-19b; #1961 is PF-19p), `BACKLOG.md` (PF-19r moves senders, not state): none.
@@ -23,4 +23,6 @@ Searched `main` (`git grep DELIVERED` under `api/src`: only the type and the uns
 3. **Purpose:** the outbox stores no purpose. The read gives the template key when the row has one, else the head of its sending key (`booking` for MailPort's `mail:booking:…`), else null (the panel says "Message"). MailPort messages (booking mail) carry no template key today (`mail.ts` drops it); storing it would need `mail.ts`, PF-19e's area. Recommendation: a later row.
 4. **Case parties:** no staff case read on the platform side yet. The rule used: `agent/case:show` plus the party being a participant of a case whose `firm_key` is the viewer's firm. No case-team narrowing (none exists for platform staff). Build Lead C's case-page row may tighten it.
 5. **@OwnOrAll:** the route is not marked `@OwnOrAll("agent/prospect")` because the sweep (`check_pf6b_permission_rules.ts`, not on the touch list) fails a marked route with no entry. The own-or-all rule is applied in the service and tested (DW5).
-6. `api/src/front-office/MODULE.md` is 42 lines on the base (module-cards fails before this change); not touched here.
+6. **@OwnOrAll sweep entry (review m5):** asking for `GET /api/platform/messages` to get a sweep entry in `check_pf6b_permission_rules.ts` (its own row), then the marker.
+7. **PR body (review m5):** `Card unchanged:` lines for the `api-features` and `web-shell` cards (one line each: a provider/controller line and a two-line mount, no entry point of theirs changes).
+8. `api/src/front-office/MODULE.md` is 42 lines on the base (module-cards fails before this change); not touched here.
